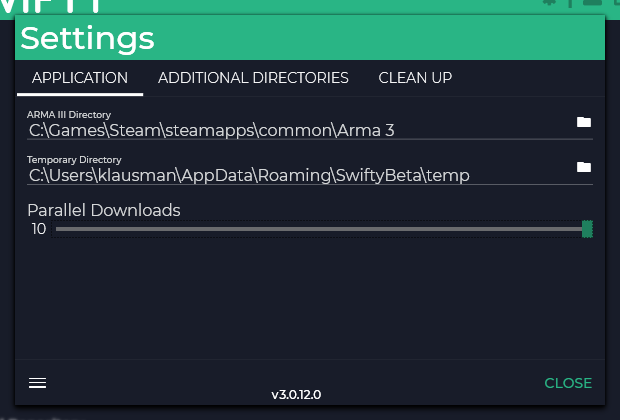
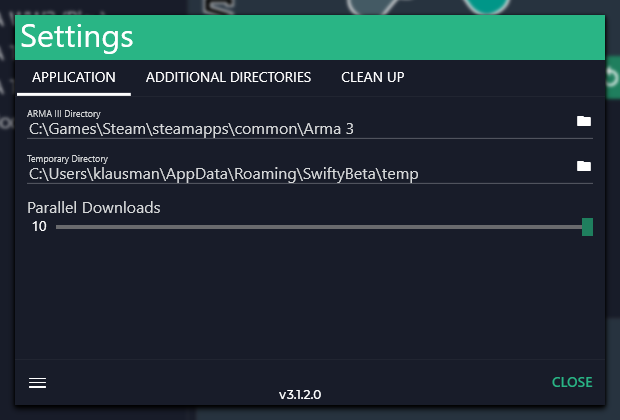
Updates for new Swifty UI

diff --git a/content/swifty/swifty3/index.md b/content/swifty/swifty3/index.md
@@ -47,8 +47,6 @@ same drive as the directories to store the mods. Note that the mods don't need
 to be on the same drive as Arma, and that you can freely pick their storage
 directories per-pack when we later add the individual modpacks.
 
-TODO: Add'l mod dirs
-
 The concurrent download slider should typically set to 5 or so, higher if you
 have a fast internet connection and an SSD.
 
@@ -95,29 +93,30 @@ The other tabs (`Credentials`, `Addons` and `External Addons`) don't need to
 be touched for now.
 
 Once you close the `Editing...` dialog, you will have a new repo. If you
-disabled `Autocheck`, you can click on the new tile and it will do a manual
-check. This will prepare some local files (this can take a minute) and then
-tell you you need to update the pack.
+disabled `Autocheck`, you can click on the new repo and then the `Check for
+updates` button and it will do a manual check. This will prepare some local
+files (this can take a minute) and then tell you you need to update the pack.
 
 <img src="swifty3_update_1.png">
 
-If you click on the tile again, you will seen information window like this,
-where you can see what files changed per-mod:
+The update dialog shows what things need to be updated and how much Swifty
+expects to download:
 
 <img src="swifty3_update_2.png">
-<img src="swifty3_update_3.png">
 
-Click `Update` and off it goes:
+Click `Download` and off it goes:
 
 <img src="swifty3_dling.png">
 
 After everything is downloaded, Swifty will do some patching (this again take
-a minute or so), and you're good to go. Note how the background image of the
-tile has changed to the PA logo. If you now click `Play`, Swifty will load
-Arma with the modpack and directly connect to the server. If you want to do
-mission editing, or play around in the Virtual Arsenal, you can click the
-dropdown arrow on the right and click `Launch` instead, which will just load
-arma with the modpack, but not connect to the server.
+a minute or so), and you're good to go. Note how the `Check for Updates` button
+has changed to `Join`.  If it hasn't, close Swifty, open it again and run
+another check; this may need 2-3 repeats due to a known bug.
+
+If you now click `Join`, Swifty will load Arma with the modpack and directly
+connect to the server. If you want to do mission editing, or play around in the
+Virtual Arsenal, you can `Launch` instead, which will just load arma with the
+modpack, but not connect to the server.
 
 ### Possible errors
 
@@ -153,7 +152,6 @@ NOTE: When editing missions, it can happen that these addtional mods create
 spurious dependencies (at least JSRS and Blastcore are know to do so). The
 easiest way to handle this is to have two separate tiles in Swifty's menu, one
 for playing one for editing. You can of course use the same mod dir, so you
-don't have duplicate mods. For example, my Swifty 3 main window looks like
-this:
+don't have duplicate mods. 
 
 <img src="swifty3_main_full.png">
